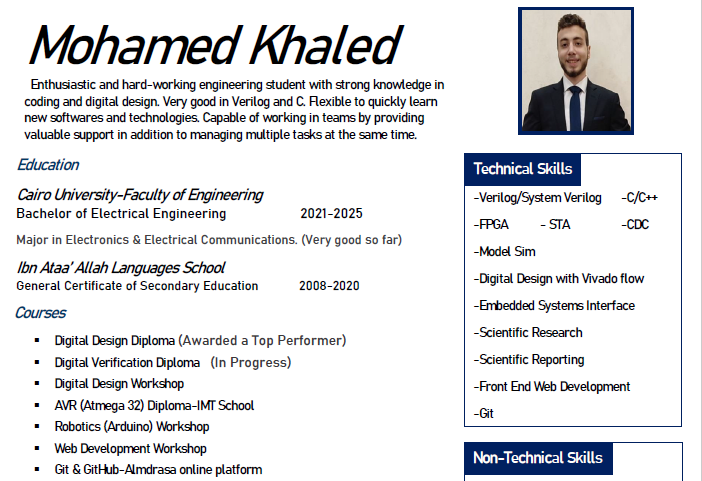
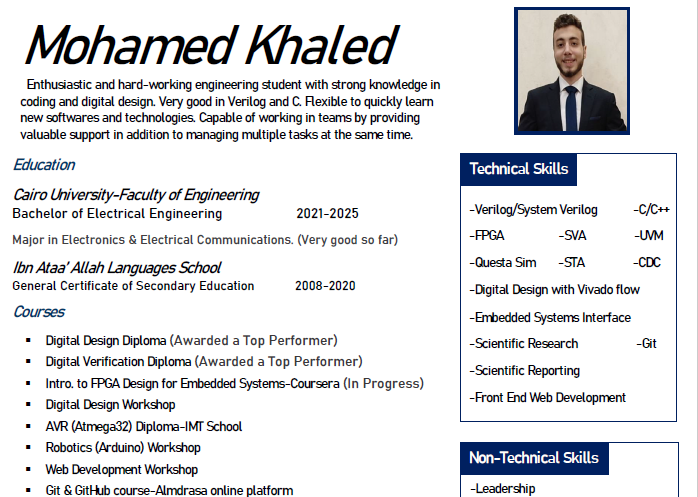
ver

diff --git a/src/Components/Dmlfccmp.jsx b/src/Components/Dmlfccmp.jsx
@@ -4,6 +4,7 @@ import Dbluec from './Dbluec';
 import Dyellowc from './Dyellowc';
 import dd from '../Images/descer.png'
 import ie from '../Images/ieee.jpeg'
+import ver from '../Images/ver.png'
 export default function Dmlfccmp({imgd}) {
     const [show,setShow]=useState(false);  
 
@@ -12,7 +13,7 @@ export default function Dmlfccmp({imgd}) {
             <img src={imgd}alt='Loading⏳'/>
             <button onClick={()=>{setShow(!show)}} >{show? "Hide" :"Show"} </button>
             {show? <div className='dcourses'>
-
+       <Dbluec title={"Digital Verification Diploma"} para={"  The Diploma was provided by Eng.Kareem Waseem. It covered essential topics regarding digital verification. I had the honour to be awarded as one of the top performers throughout the diploma. The diploma content covered : \nSystem Verilog Data types, tasks and functions.\n System Verilog interfaces and how to use it in the design,testbench and the monitor files. Enhancing the ability of establishing a good verification plan.\nThe way of constructing functional cover groups. \nThe way of constructing constraint blocks. \nSystem Verilog Assertions. \n Basics of OOP.\nUVM structure and how to create a UVM based verification environment."}img={ver}/>
        <Dyellowc title={"Digital Design Diploma"}para={"  The Diploma was provided by Eng.Kareem Waseem. It covered many important topics concerning digital design. I was also awarded as one of the top performers throughout the diploma. The diploma content covered : \n-History of HDLs.\n-Verilog HDL and design flows.\n-Digital Design using Vivado flow.\n-Practising both combinational and sequential circuits design.\n-Practising both combinational and sequential circuits test benches.\n-Finite state machines (mealy and moore).\n-Memories.\n-Field Programmable Gate Array (FPGA).\n-Clock Domain Crossing.\n-Static Timing Analysis."} img={dd}/>
        <Dbluec title={"Digital Electronics Workshop"}para={"  The workshop was provided by IEEE CUSB. It covered the basics of digital design. The workshop included also some important points in specific topics like Static Timing analysis and dealing with Quartz tool. It has also enhanced communication and team work skills."} img={ie}/>
 
